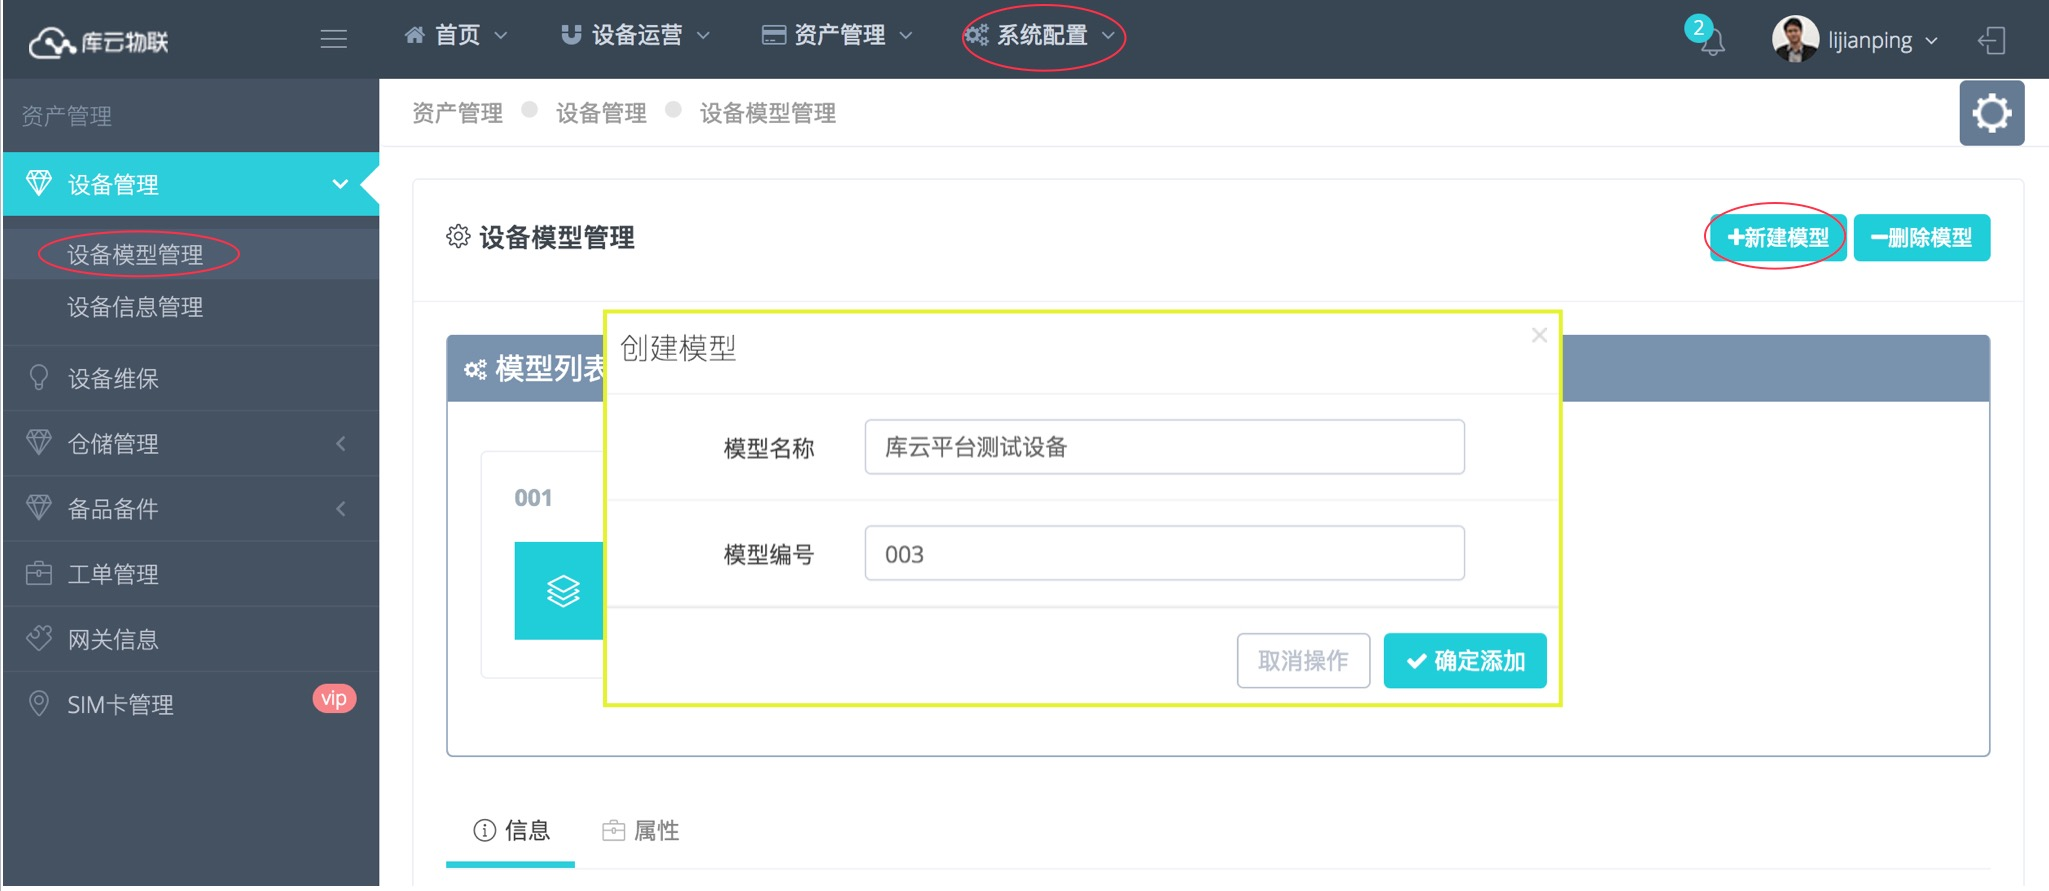
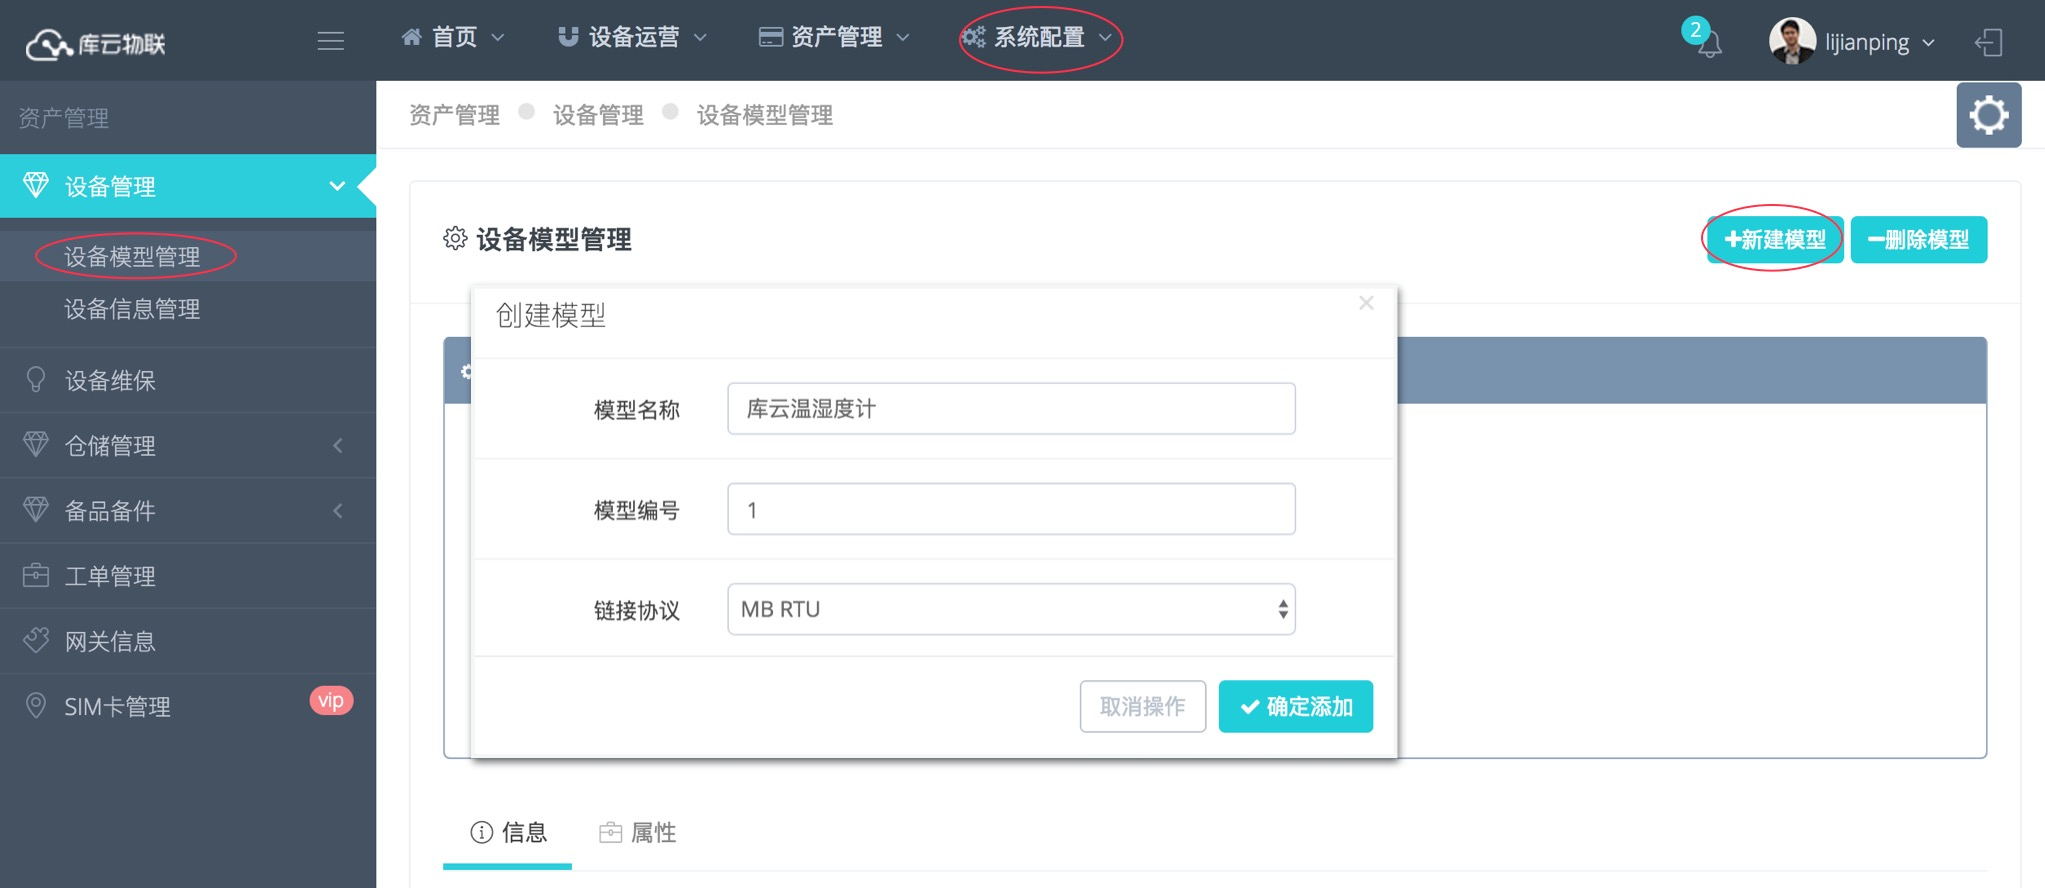
帮助文档修改

diff --git a/admin_1_angularjs/views/setting-help-connectRTU.html b/admin_1_angularjs/views/setting-help-connectRTU.html
@@ -58,8 +58,15 @@
           <div id="collapse_1_2" class="panel-collapse collapse">
               <div class="panel-body">
                 <p>在设备模型管理中建立设备模型：设备模型代表同一类设备，拥有同样的模型参数。基于同一个设备模型创建的设备也同样拥有一样的模型参数。设备模型创建和模型参数配置方法如下：</p>
+                <p>新建模型时，需要选择网关。目前可供选择的网关有Modbus RTU 和库云平台定制的库智网关：</p>
                 <img src="../assets/pages/img/help/createModel.jpg" style="height: 500px; margin: 0 auto; padding: 10px" class="img-responsive pic-bordered" alt="" />
+                <p>完成模型创建后，在模型属性内创建模型参数，设置相关的参数信息。</p>
                 <img src="../assets/pages/img/help/editModel.jpg" style="height: 500px; margin: 0 auto; padding: 10px" class="img-responsive pic-bordered" alt="" />
+                <p>设置参数读写指令。模型的读写指令根据网关的不同有不同的设置方式,下图为Modbus RTU读写指令设置：</p>
+                <img src="../assets/pages/img/help/read-RTU.jpg" style="height: 500px; margin: 0 auto; padding: 10px" class="img-responsive pic-bordered" alt="" />
+                <p>下图为 库智网关 读写指令设置：</p>
+                <img src="../assets/pages/img/help/read-JK.jpg" style="height: 500px; margin: 0 auto; padding: 10px" class="img-responsive pic-bordered" alt="" />
+
               </div>
           </div>
       </div>
@@ -74,8 +81,7 @@
           <div id="collapse_1_3" class="panel-collapse collapse">
               <div class="panel-body">
                 <p>设备模型创建完毕后，就能够基于该设备模型创建设备实例，如下图所示：在设备信息管理中添加设备信息。
-                  添加完的设备会显示在设备列表中，您可以对任意设备进行编辑或删除。注意：已经设置了设备连接参数的设备，
-                  暂时不能由您进行删除，如需删除请联系客服 0512-86861827
+                  添加完的设备会显示在设备列表中，您可以对任意设备进行编辑或删除。
                 </p>
                 <img src="../assets/pages/img/help/createDevice.jpg" style="height: 600px; margin: 0 auto; padding: 10px" class="img-responsive pic-bordered" alt="" />
               </div>
@@ -91,8 +97,23 @@
           </div>
           <div id="collapse_1_4" class="panel-collapse collapse">
               <div class="panel-body">
-                <p>选择需要接入的设备，点击设备接入。按照下图的指示，配置RTU连接。（平台会陆续实现其他方式的连接，敬请期待）读写指令配置请根据实际值配置</p>
+                <p>选择需要接入的设备，点击设备接入。按照下图的指示，配置RTU连接</p>
                 <img src="../assets/pages/img/help/connectRTU.jpg" style="height: 800px; margin: 0 auto; padding: 10px" class="img-responsive pic-bordered" alt="" />
+              </div>
+          </div>
+      </div>
+      <div class="panel panel-default purple">
+          <div class="panel-heading purple">
+              <h4 class="panel-title">
+                  <a class="accordion-toggle" data-toggle="collapse" data-parent="#accordion1" href="/#collapse_1_5">
+                      <i class="icon-settings font-dark"></i> 设备接入-库智网关 方式
+                  </a>
+              </h4>
+          </div>
+          <div id="collapse_1_5" class="panel-collapse collapse">
+              <div class="panel-body">
+                <p>选择需要接入的设备，点击设备接入。按照下图的指示，配置RTU连接</p>
+                <img src="../assets/pages/img/help/connectJK.jpg" style="height: 800px; margin: 0 auto; padding: 10px" class="img-responsive pic-bordered" alt="" />
               </div>
           </div>
       </div>
